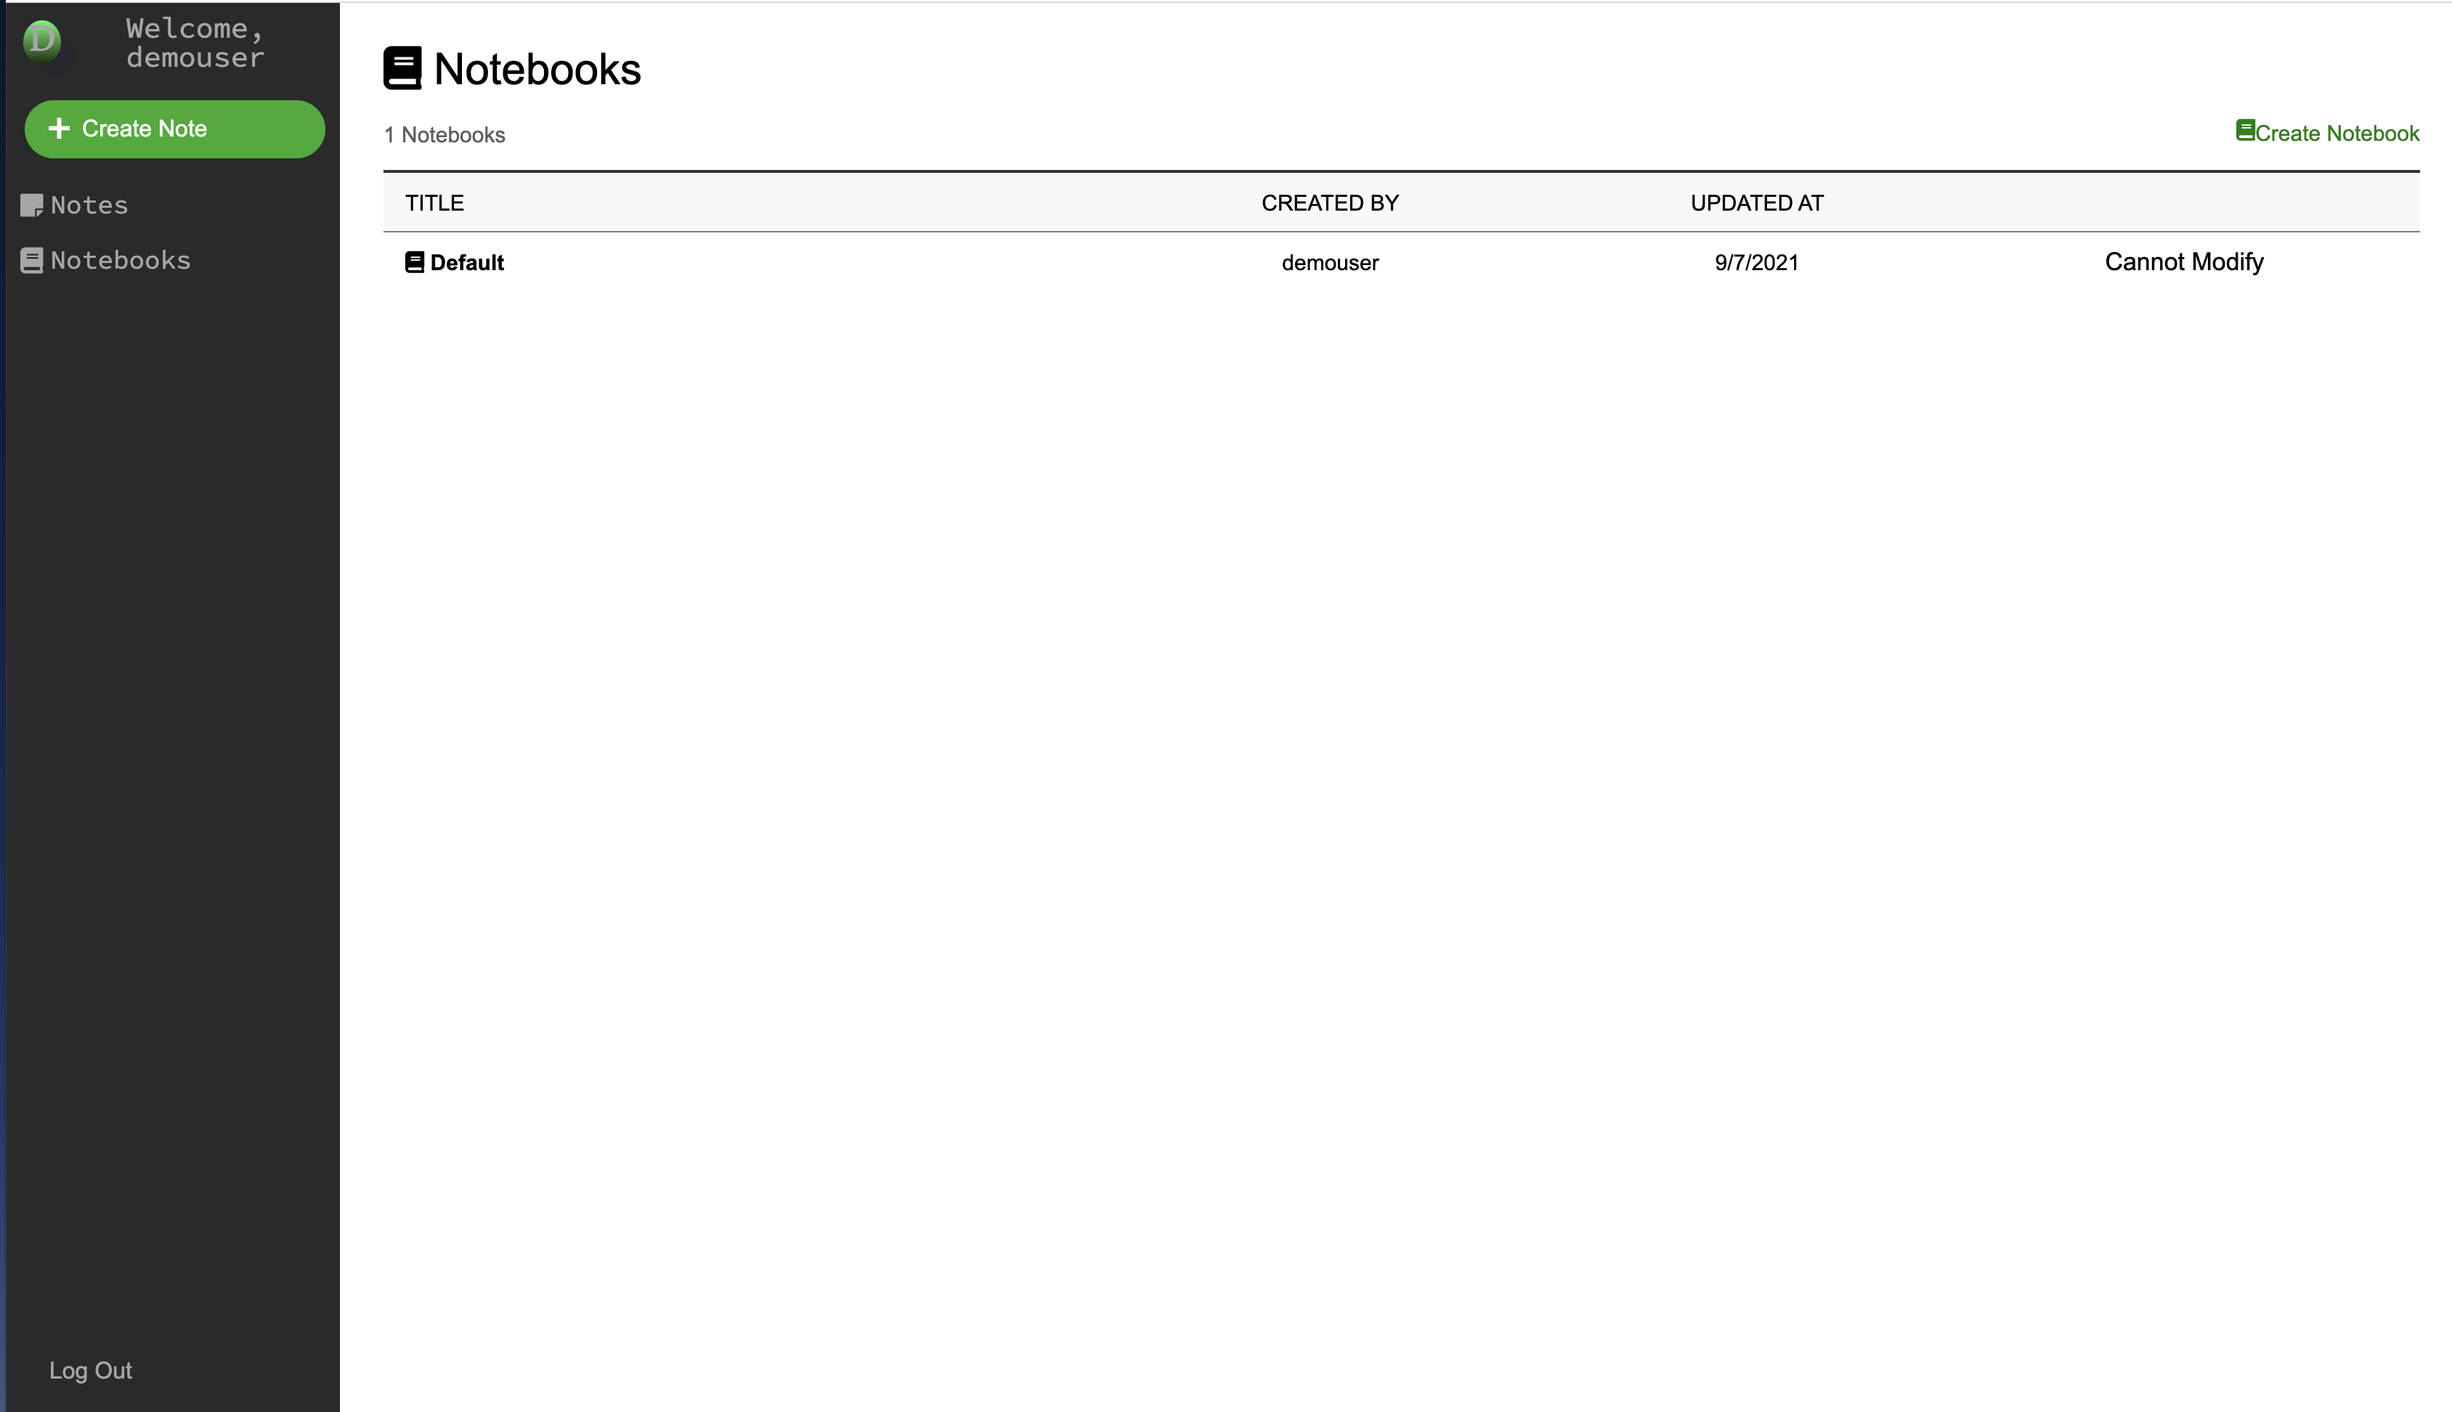
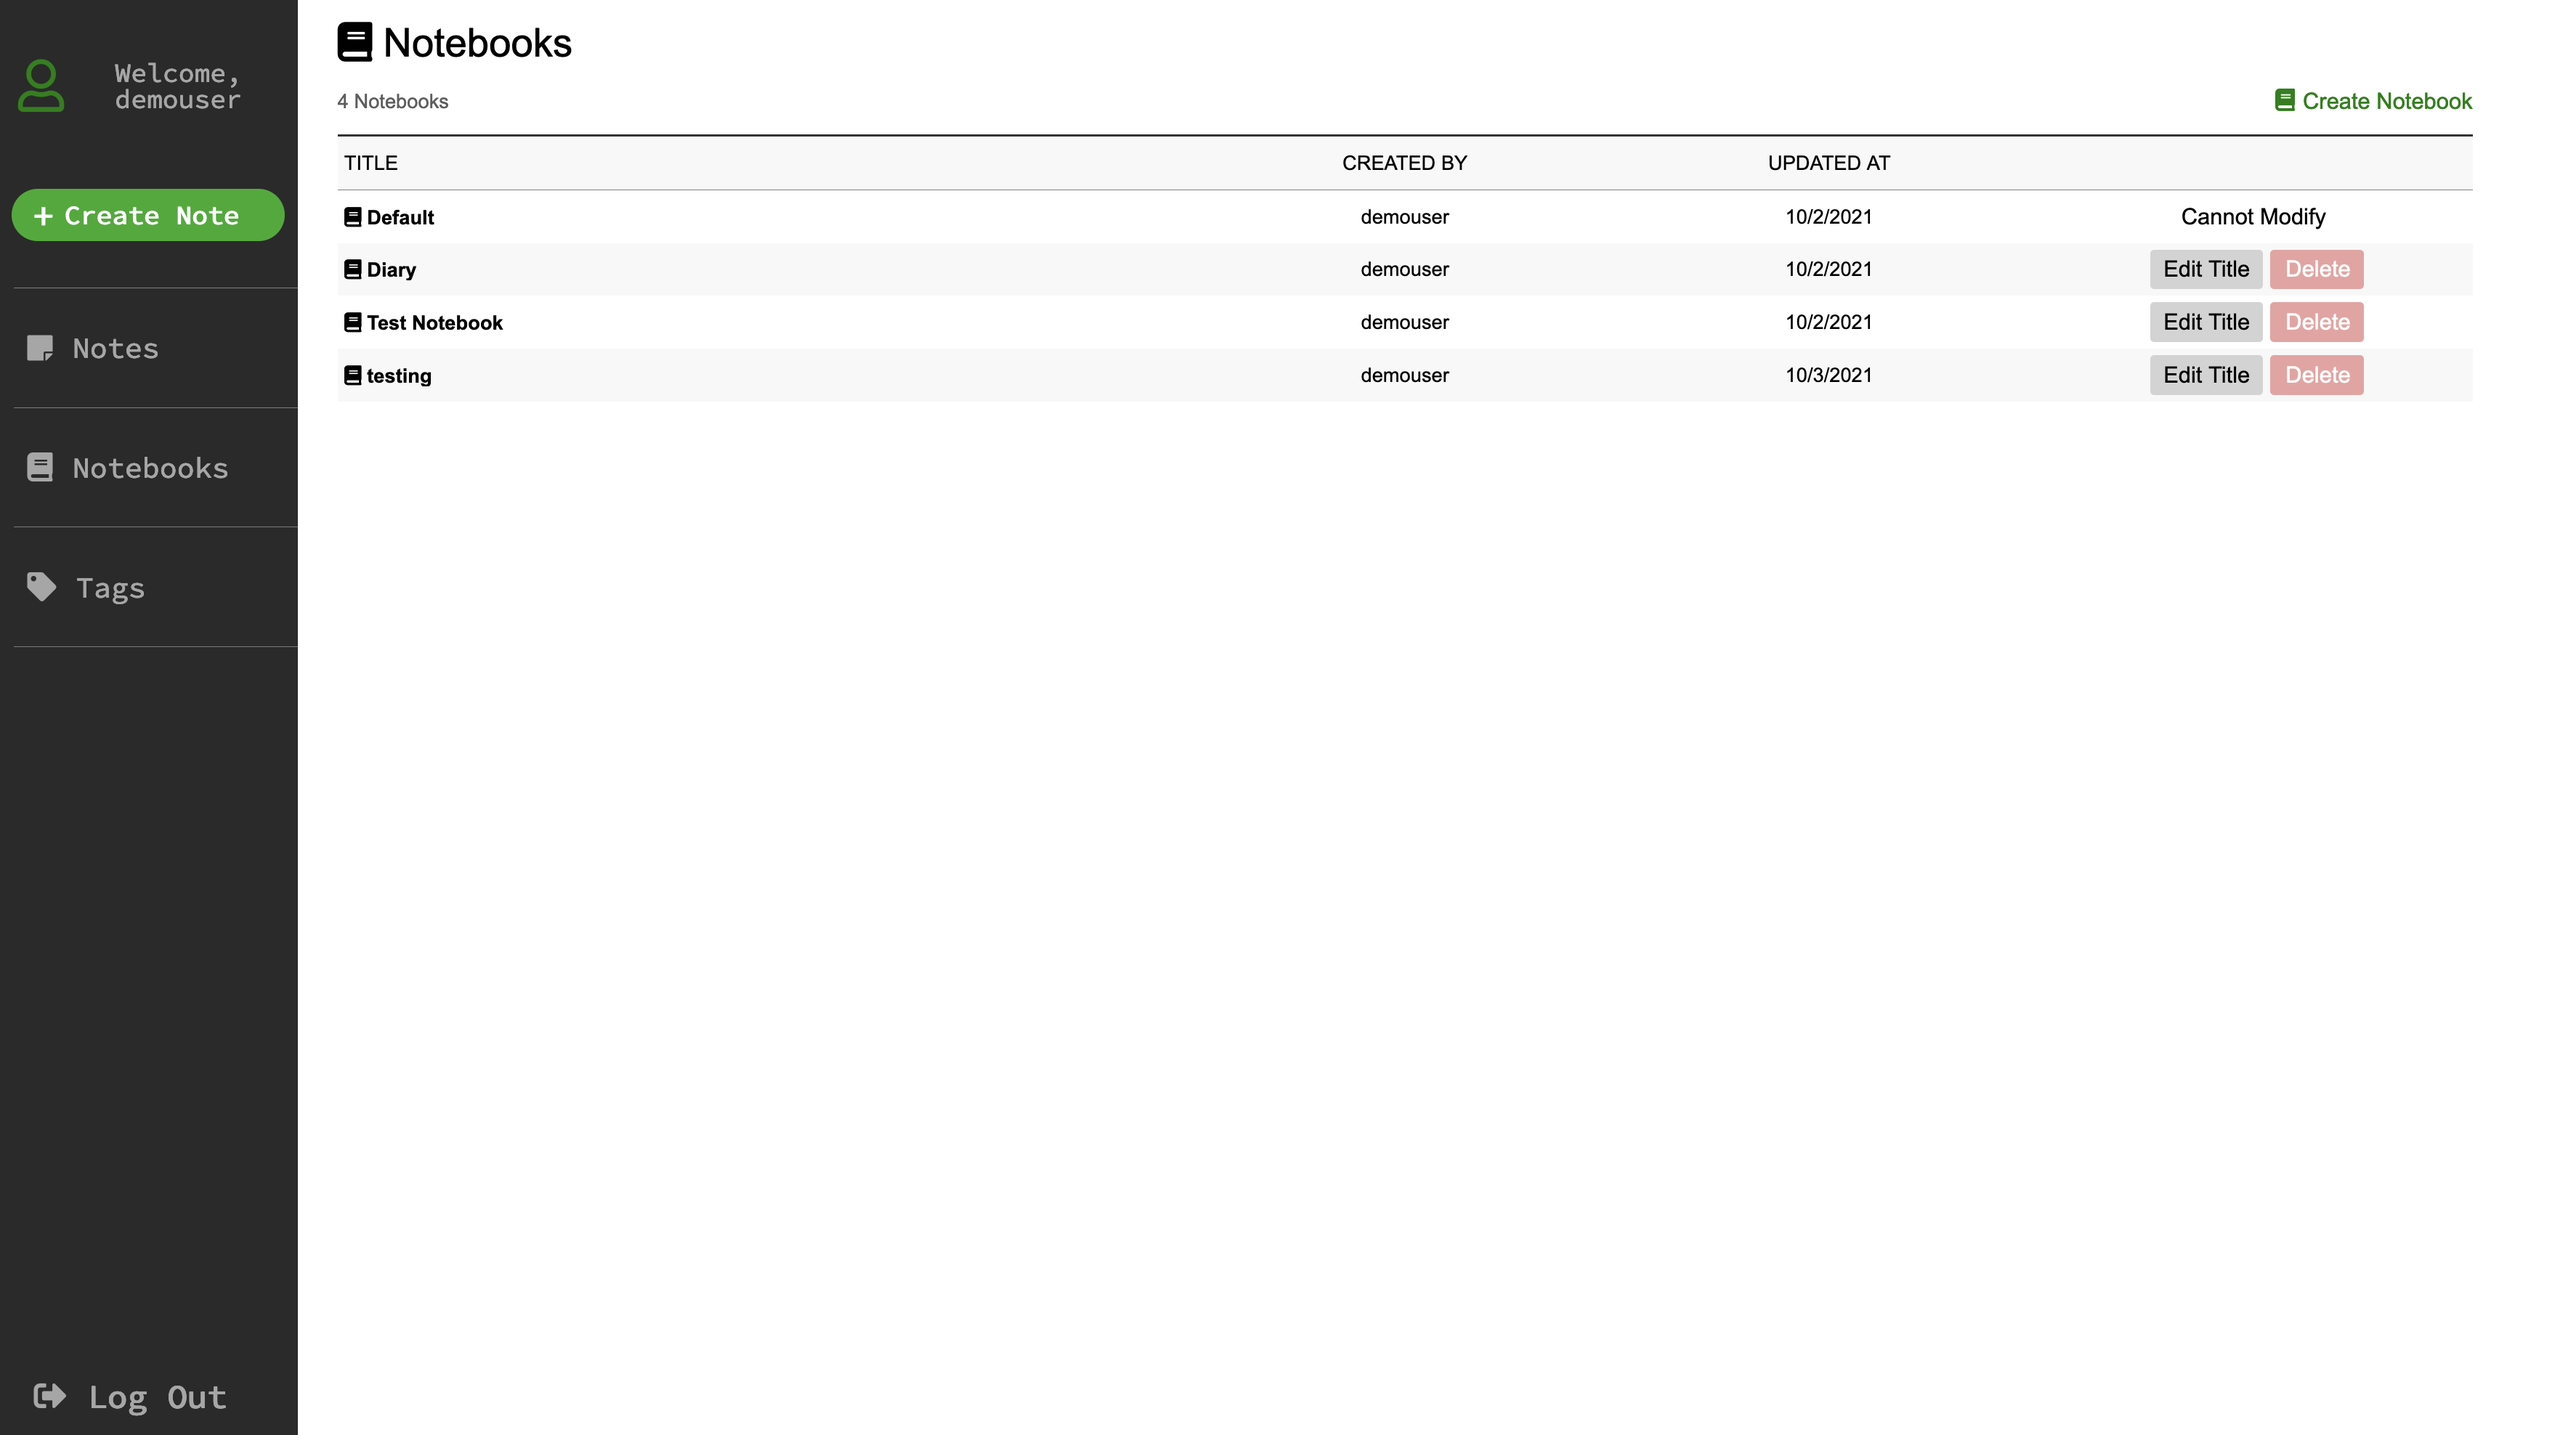
readme updates for tag part

Changed region(s): [[0.0, 0.0, 0.9953, 1.0], [0.6842, 0.216, 0.7153, 0.2778], [0.0, 0.4012, 0.0622, 0.4321]]

diff --git a/README.md b/README.md
@@ -13,9 +13,14 @@ NeverEverNote is a clone of Evernote, a note taking web app. NeverEverNote allow
 #### Notes Page
 <img width="800" alt="notes-page" src="app/assets/images/notes-page.png">
 
+### Notes Edit Page
+<img width="800" alt="notes-show-page" src="app/assets/images/notes-show-page.png">
+
 #### Notebooks Page
 <img width="800" alt="notebook-page" src="app/assets/images/notebook-page.png">
 
+### Tags Page
+<img width="800" alt="tags-page" src="app/assets/images/tags-page.png">
 <br/>
 
 ## Deployment
@@ -108,7 +113,46 @@ const mDTP = dispatch => ({
 export default connect(mSTP, mDTP)(NotebooksIndex);
 ```
 
+#### Tags
+Tags are a table in the database with columns for tite and user_id.
+
+Users are able to create, view, update, and delete `tags`.
+
+Users can see all tags only logging in by clicking tags on the left sidebar. 
+Lists of tags will display on the page, where users can retitle or delete tags.
+
+User also can add tags from the notes directly from the bottom of notes edit page.
+This will automatically update tags lists as well.
+
+```Javascript
+<div className="tags">
+    <div><img src={window.tagURL} /></div>
+    <ul className="note-tags-lists">
+        {this.state.tags.map( tag => {
+            if (!tag) {
+                return null
+            } else {
+                return (
+                    <div>
+                        <Link to={`/tags/${tag.id}`}>
+                            <li className="tag-list-items" key={tag.id}>{tag.title}</li>
+                        </Link>
+            
+                    </div>
+                    
+                )
+            }
+        })}
+    </ul>
+    <div className="add-note-tag">
+        <form onSubmit={this.handleSubmit}>
+            <input className="tag-input" type="text" value={this.state.tagTitle} onChange={this.updateTag} placeholder="Add Tag here" />
+        </form>
+    </div>
+</div>
+```
+
+
 
 ## Future Features
-- Tags
 - Moving Notes (from current notebook to other notebook)
